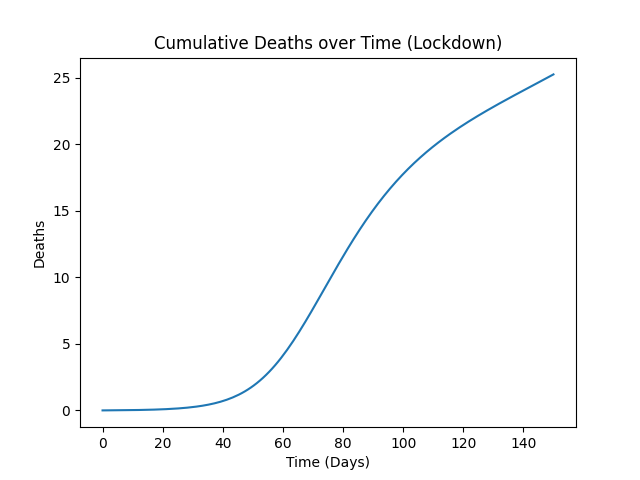
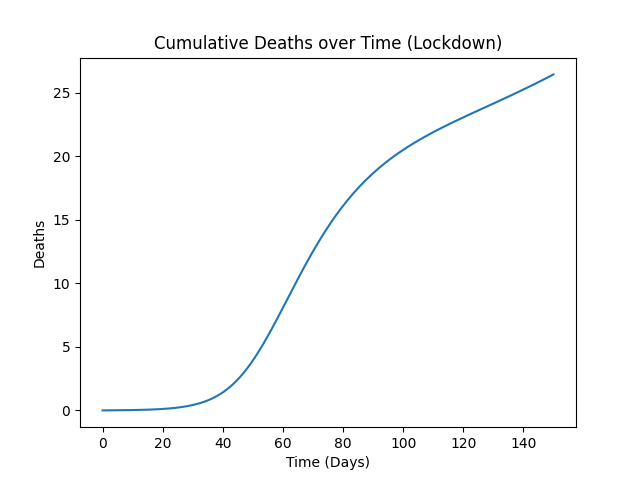
Make all R-Plots have Consistent Y Scale

diff --git a/seiqrsd.py b/seiqrsd.py
@@ -9,7 +9,7 @@ from model import deriv
 
 # Test Case
 save = True
-test_case = 'Quarantine'
+test_case = 'Vaccination'
 print(f'Test Case: {test_case}')
 
 # Total population, N.
@@ -19,9 +19,9 @@ E0, I0, Q0, R0, D0 = 0, 1, 0, 0, 0
 # Everyone else, S0, is susceptible to infection initially.
 S0 = N - E0 - I0 - Q0 - R0 - D0
 # Contact rate(beta), incubation period(phi, in 1/days), quarantine rate(zeta, in 1/days), mean recovery rate in non-quarantine(gamma, in 1/days), mean recovery rate in quarantine(kappa, in 1/days), immunity wearoff rate(mu, in 1/days), death rate in non-quarantine(alpha, in 1/days), and death rate in quarantine(epsilon, in 1/days).
-beta, phi, zeta, gamma, kappa, mu, alpha, epsilon = 0.9, 1./10, 1.3 * (1./10), 1./10, 1./10, (1./60), 0.02, 0.02
+beta, phi, zeta, gamma, kappa, mu, alpha, epsilon = 0.85*0.9, 1./10, (1./10), 1./10, 1./10, 0.85*(1./60), 0.002, 0.002
 # A grid of time points (in days)
-t = np.linspace(0, 10000, 10000)
+t = np.linspace(0, 150, 150)
 
 print(f'Beta: {beta}, Gamma: {gamma}')
 r0 = r_plot(S0, N, beta, gamma, kappa, alpha)
@@ -36,14 +36,12 @@ ret = odeint(deriv, y0, t, args=(N, beta, phi, zeta, gamma, kappa, mu, alpha, ep
 S, E, I, Q, R, D = ret.T
 
 # N Array
-N_arr = np.full(len(t), N)
-
-Se = (N_arr*(gamma+zeta))/beta
-Ie = (phi*kappa*mu*(N_arr-D)*(beta-gamma-zeta))/(beta*((kappa*(gamma+zeta)*(mu+phi))+(phi*mu*(kappa+zeta))))
-Ee = (beta*Se*Ie)/((N_arr-D)*phi)
+Se = (N*(gamma+zeta))/beta
+Ie = (phi*kappa*mu*N*(beta-gamma-zeta))/(beta*((kappa*(gamma+zeta)*(mu+phi))+(phi*mu*(kappa+zeta))))
+Ee = (beta*Se*Ie)/(N*phi)
 Qe = (zeta*Ie) / kappa
 Re = (Ie*(gamma+zeta))/mu
-De = N_arr - (Se+Ee+Ie+Qe+Re)
+De = N - (Se+Ee+Ie+Qe+Re)
 
 print(f'Se: {Se}, Ee: {Ee}, Ie: {Ie}, Qe: {Qe}, Re: {Re}, De: {D[-1]}')
 
@@ -52,19 +50,20 @@ print(f'Cases(max) = {max(I+Q)}')
 
 
 # Save Data to xlsx
-df = pd.DataFrame({'Time': t, 'Susceptible': S, 'Exposed': E, 'Infected': I, 'Quarantined': Q, 'Recovered': R, 'Dead': D})
-df.to_excel(f'seiqrs.xlsx', index=False)
+# df = pd.DataFrame({'Time': t, 'Susceptible': S, 'Exposed': E, 'Infected': I, 'Quarantined': Q, 'Recovered': R, 'Dead': D})
+# df.to_excel(f'seiqrs.xlsx', index=False)
 
 # R Plot
 r_vals = r_plot(S, N, beta, gamma, zeta, alpha)
 plt.plot(t, r_vals, label = "Reproductive Number")
-plt.axhline(y = r_plot(S[-1], N, beta, gamma, zeta, alpha), linestyle = '--')
+# plt.axhline(y = r_plot(S[-1], N, beta, gamma, zeta, alpha), linestyle = '--')
 plt.axhline(y = 1, linestyle = '--')
-
+plt.autoscale()
+# Y Axis Max 4.5
+plt.ylim(plt.ylim()[0], 4.65)
 plt.title(f'Reproductive Number over Time ({test_case})')
 plt.xlabel('Time (Days)')
 plt.ylabel('Reproductive Number')
-plt.autoscale()
 if save:
     plt.savefig(f'pics\{test_case} Case_R_plot.png')
 plt.show(block=False)
@@ -72,7 +71,7 @@ plt.show(block=False)
 # Plot Cumulative Deaths
 plt.figure()
 plt.plot(t, D)
-plt.plot(t, De, 'tab:blue', linestyle = '--')
+# plt.plot(t, De, 'tab:blue', linestyle = '--')
 plt.title(f'Cumulative Deaths over Time ({test_case})')
 plt.xlabel('Time (Days)')
 plt.ylabel('Deaths')
@@ -101,12 +100,12 @@ plt.plot(t, I, label = "Infected")
 plt.plot(t, Q, label = "Quarantined")
 plt.plot(t, R, label = "Recovered")
 plt.plot(t, D, label = "Dead")
-plt.plot(t, Se, 'tab:blue', linestyle = '--')
-plt.plot(t, Ee, 'tab:blue', linestyle = '--')
-plt.plot(t, Ie, 'tab:blue', linestyle = '--')
-plt.plot(t, Qe, 'tab:blue', linestyle = '--')
-plt.plot(t, Re, 'tab:blue', linestyle = '--')
-plt.plot(t, De, 'tab:blue', linestyle = '--')
+plt.axhline(Se, linestyle = '--')
+plt.axhline(Ee, linestyle = '--')
+plt.axhline(Ie, linestyle = '--')
+plt.axhline(Qe, linestyle = '--')
+plt.axhline(Re, linestyle = '--')
+plt.axhline(De, linestyle = '--')
 plt.legend(loc='upper right')
 plt.title(f'SEIQRSD State over Time ({test_case} Case)')
 plt.xlabel('Time (Days)')
